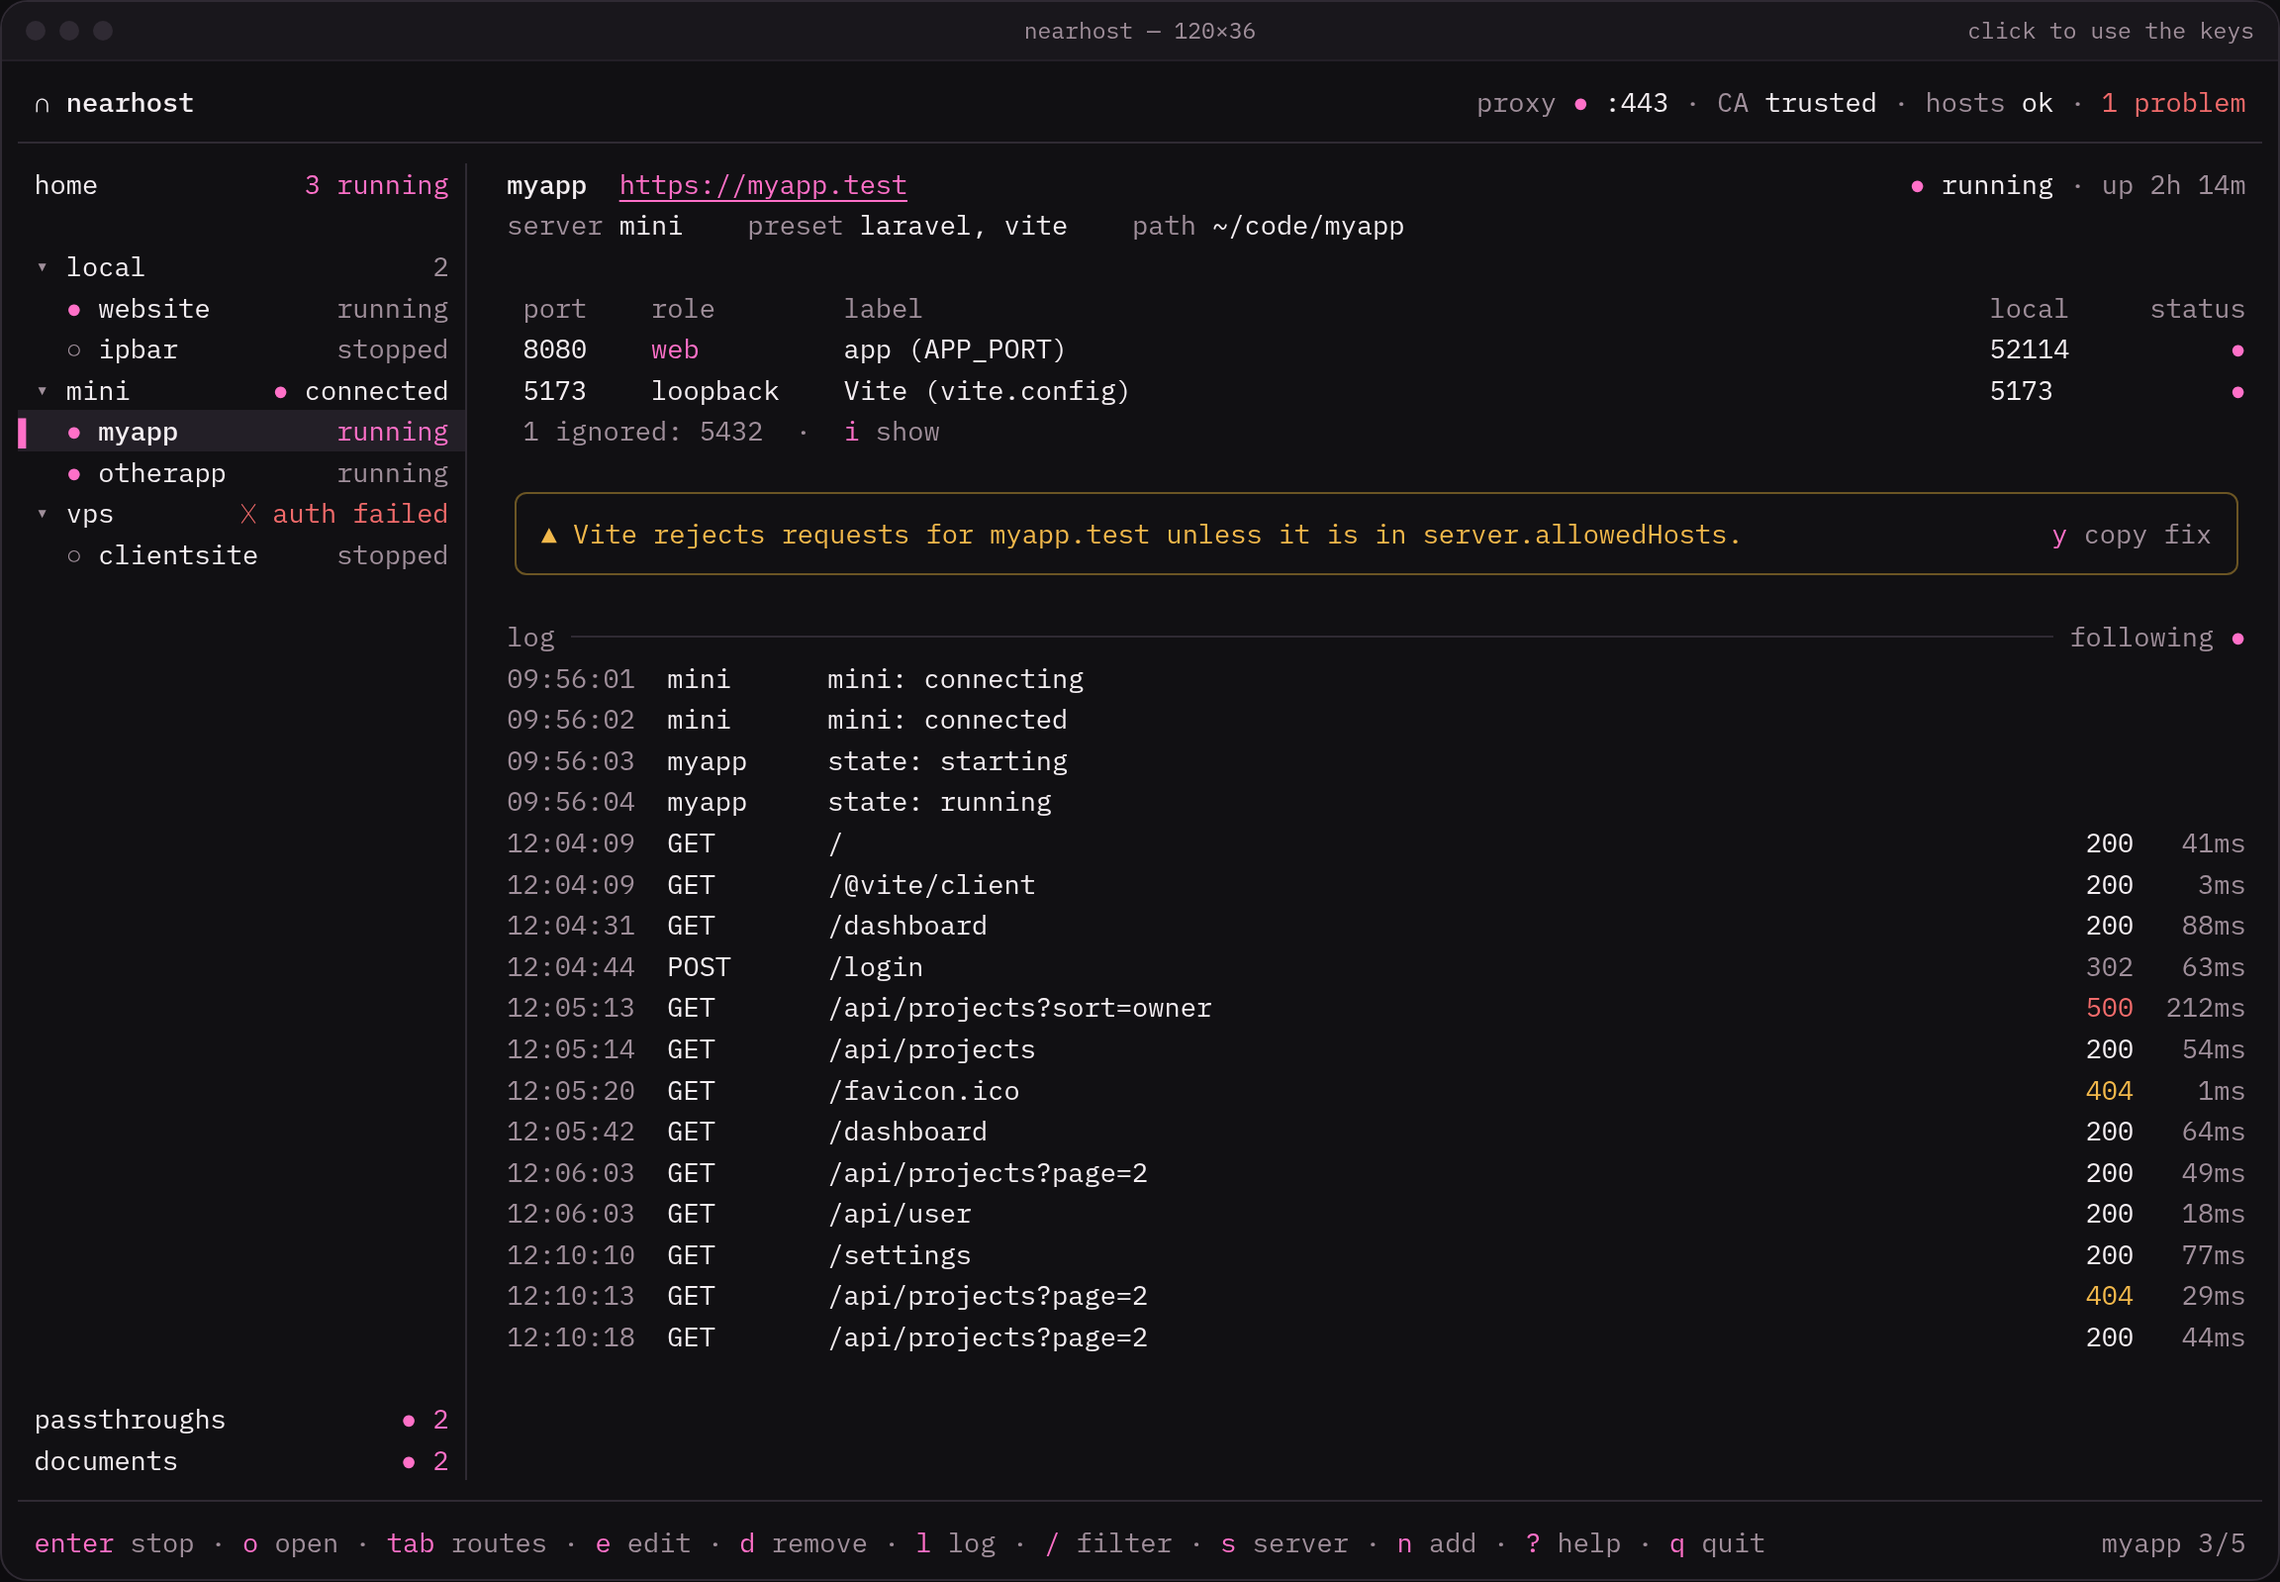
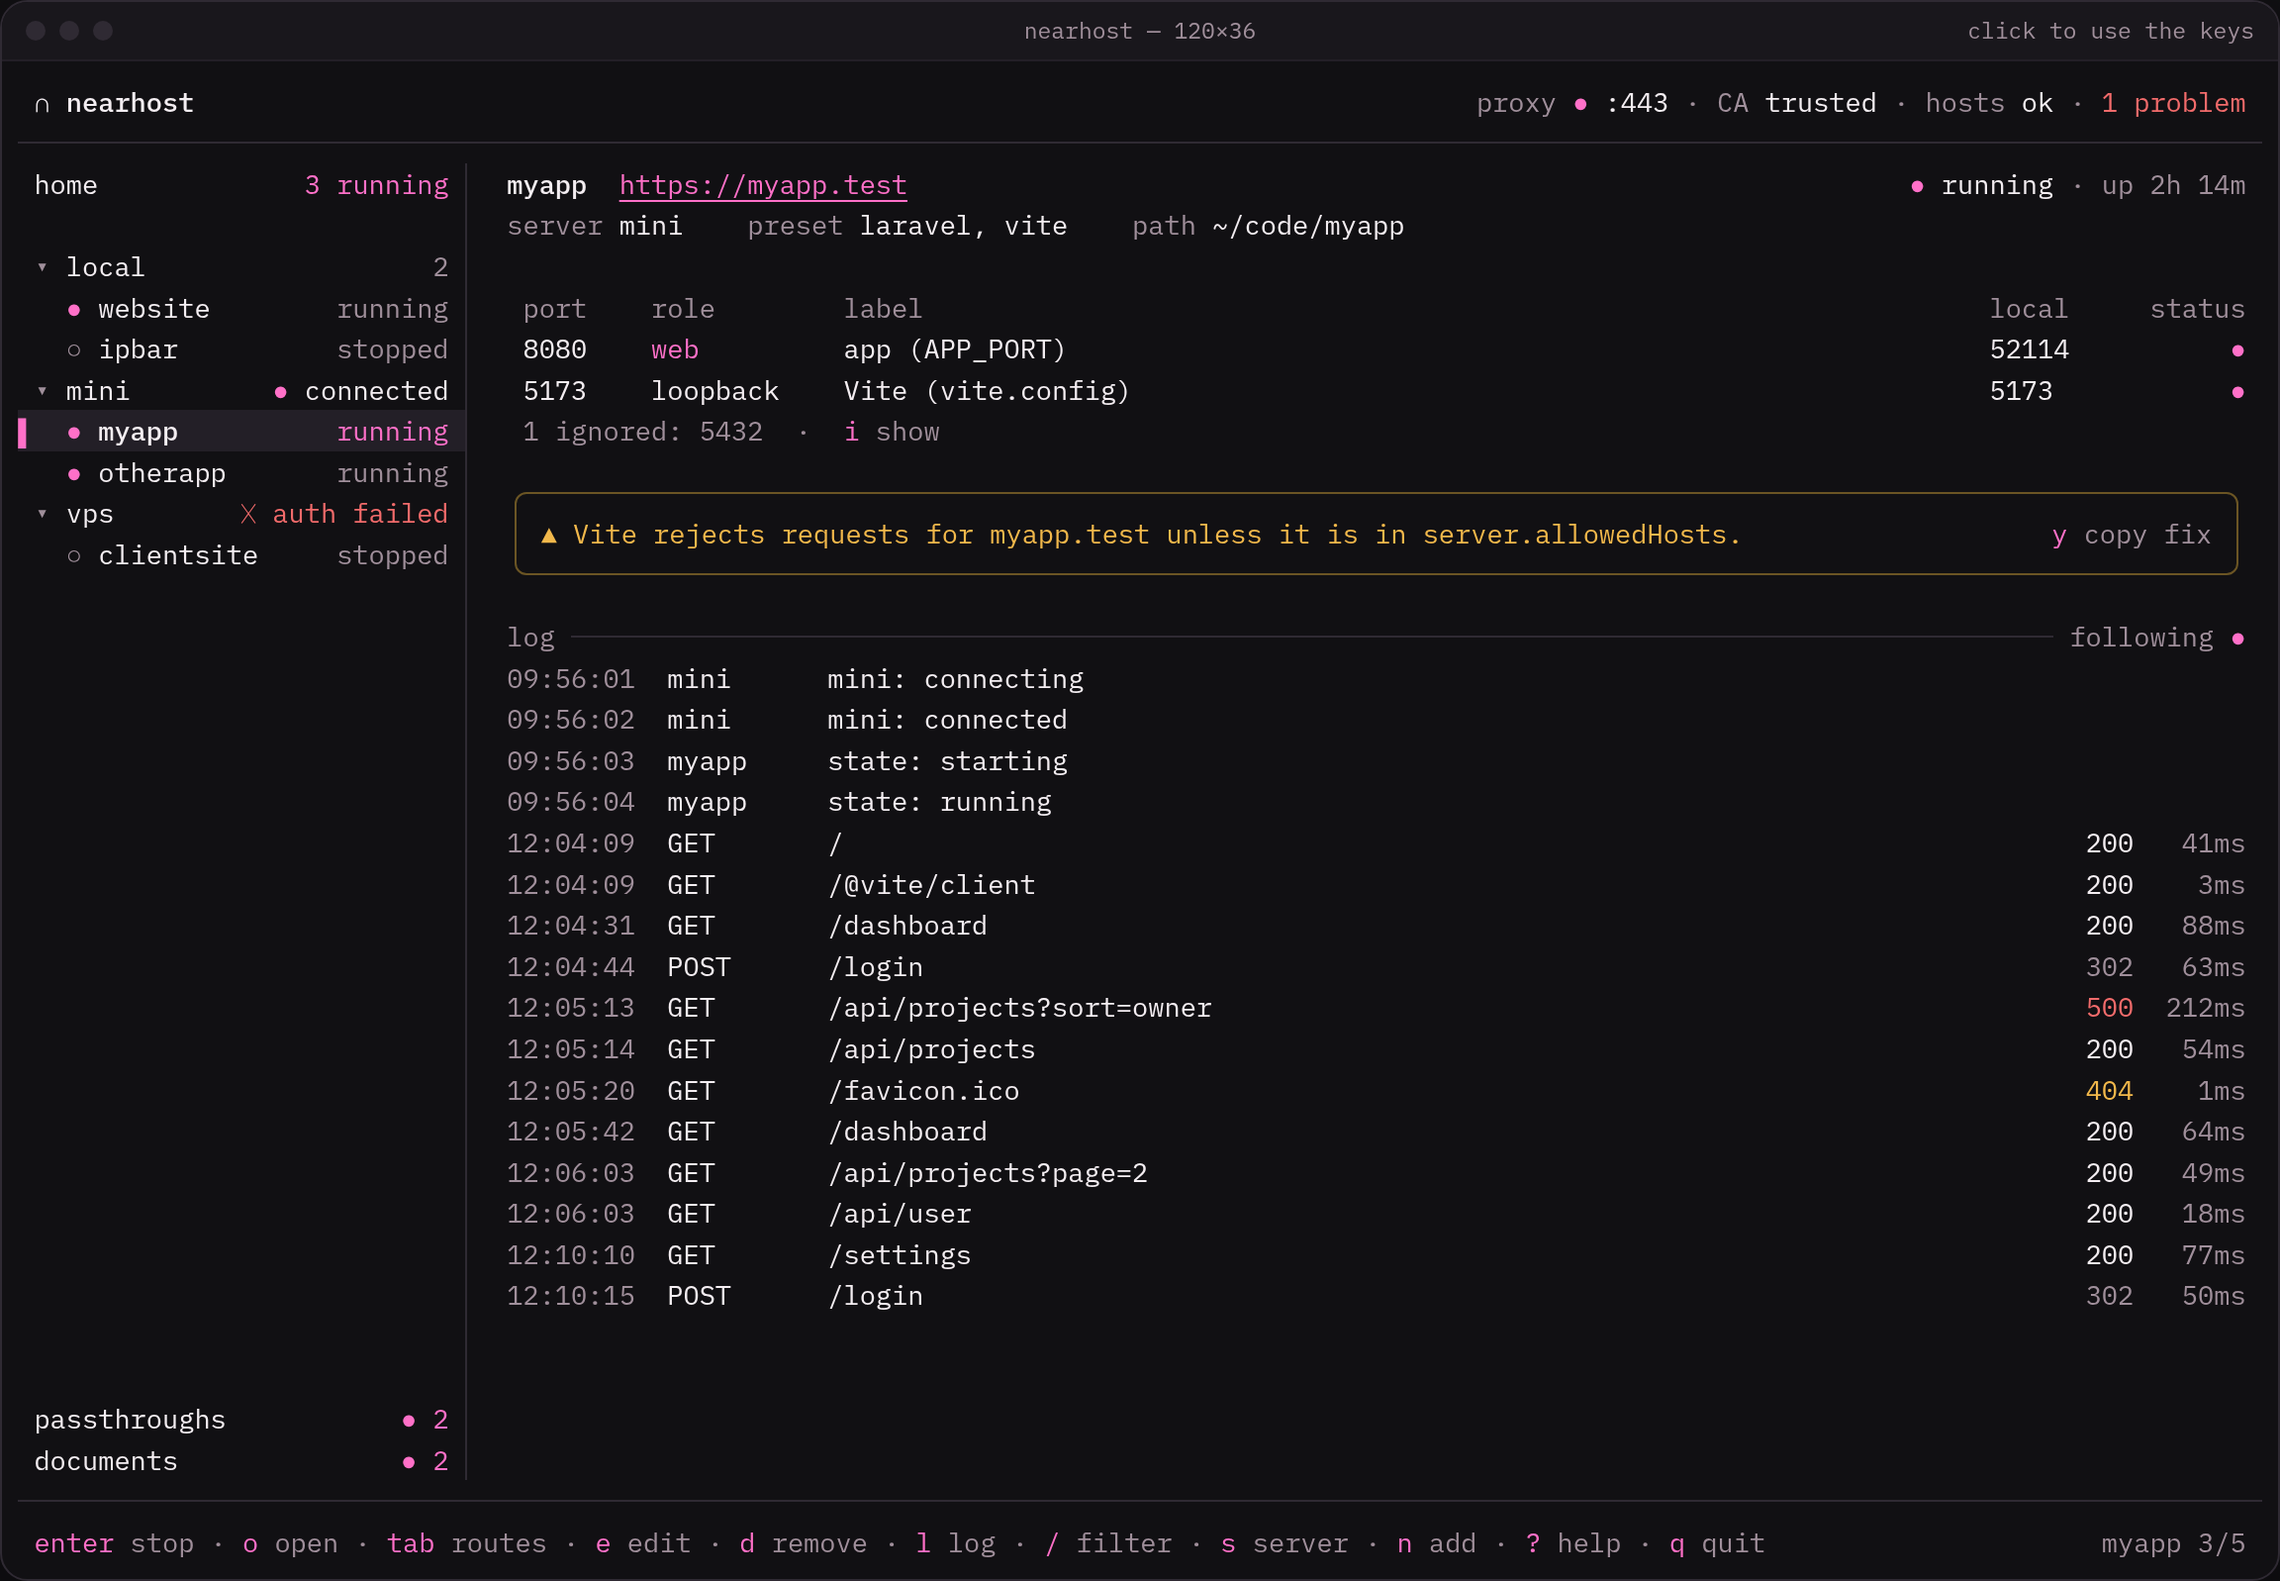
fix: crop tui.png with sharp and measure the demo frame

diff --git a/assets/crop-frame.js b/assets/crop-frame.js
@@ -1,0 +1,48 @@
+// Crops the demo frame out of a full-page screenshot: crop-frame.js <landing> <in> <out>.
+// The frame has a 1px border in the line colour (#2F2A33). Its top and bottom edges are
+// the first and last rows holding a horizontal run of that colour about as wide as the
+// frame (2000-2400 device px), which skips the install box (narrower) and full-width
+// section dividers (wider). Left and right are the outermost border pixels on the frame's middle row,
+// since the rounded corners shorten the top edge's run.
+const sharp = require(process.argv[2] + '/node_modules/sharp');
+
+(async () => {
+  const { data, info } = await sharp(process.argv[3]).raw().toBuffer({ resolveWithObject: true });
+  const { width, height, channels } = info;
+  const border = [0x2f, 0x2a, 0x33];
+  const isBorder = (x, y) => {
+    const i = (y * width + x) * channels;
+    return data[i] === border[0] && data[i + 1] === border[1] && data[i + 2] === border[2];
+  };
+  let top = -1, bottom = -1;
+  for (let y = 0; y < height; y++) {
+    let best = 0, run = 0;
+    for (let x = 0; x <= width; x++) {
+      if (x < width && isBorder(x, y)) run++;
+      else {
+        if (run > best) best = run;
+        run = 0;
+      }
+    }
+    if (best >= 2000 && best <= 2400) {
+      if (top < 0) top = y;
+      bottom = y;
+    }
+  }
+  if (top < 0 || bottom <= top) {
+    console.error('could not find the demo frame in the page screenshot');
+    process.exit(1);
+  }
+  if (bottom >= height - 2) {
+    console.error('the demo frame runs off the bottom of the screenshot');
+    process.exit(1);
+  }
+  const mid = Math.round((top + bottom) / 2);
+  let left = 0, right = width - 1;
+  while (left < width && !isBorder(left, mid)) left++;
+  while (right > left && !isBorder(right, mid)) right--;
+  await sharp(process.argv[3])
+    .extract({ left, top, width: right - left + 1, height: bottom - top + 1 })
+    .removeAlpha()
+    .toFile(process.argv[4]);
+})();
